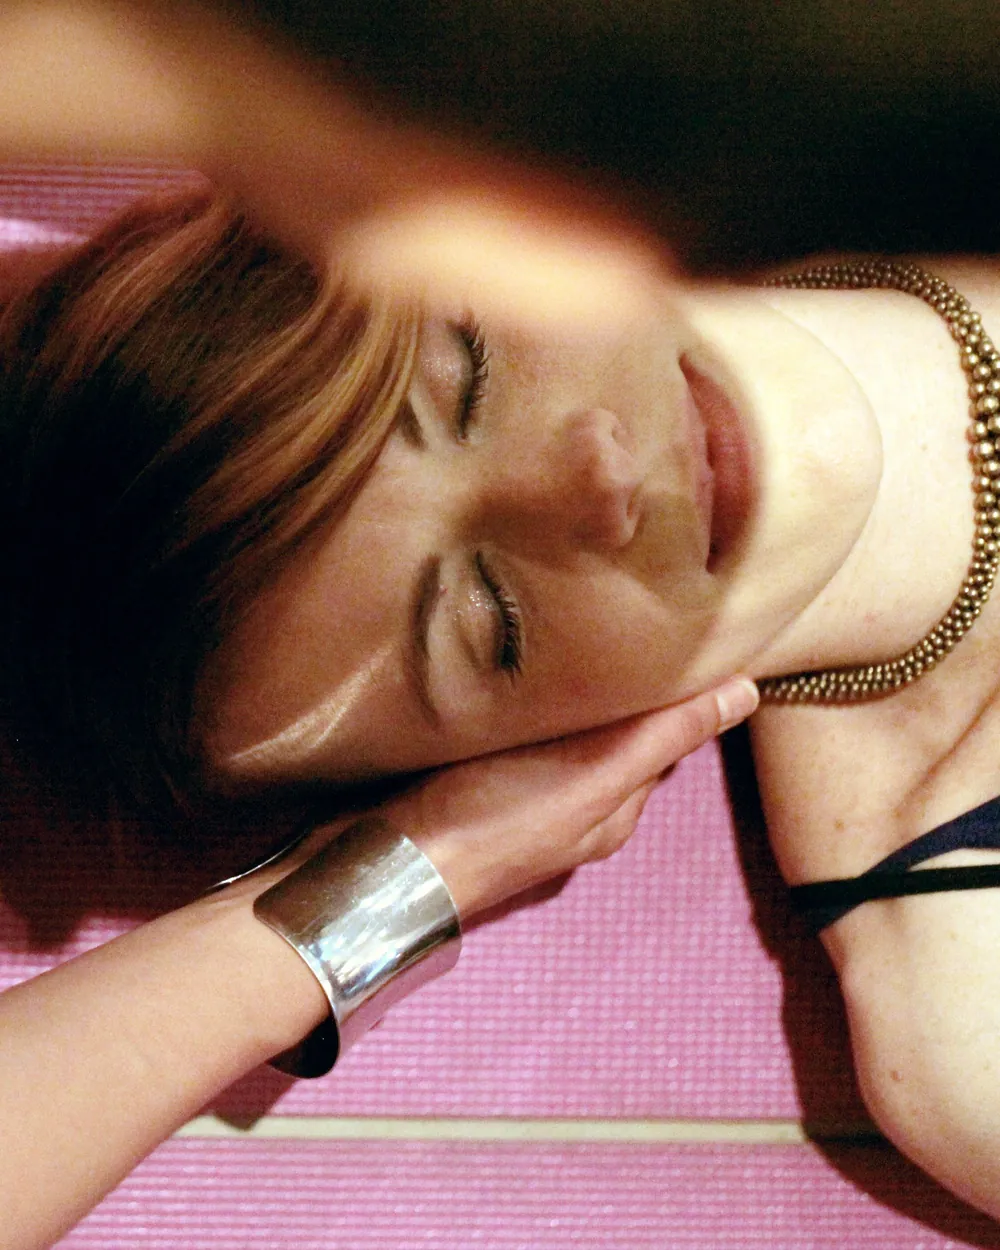
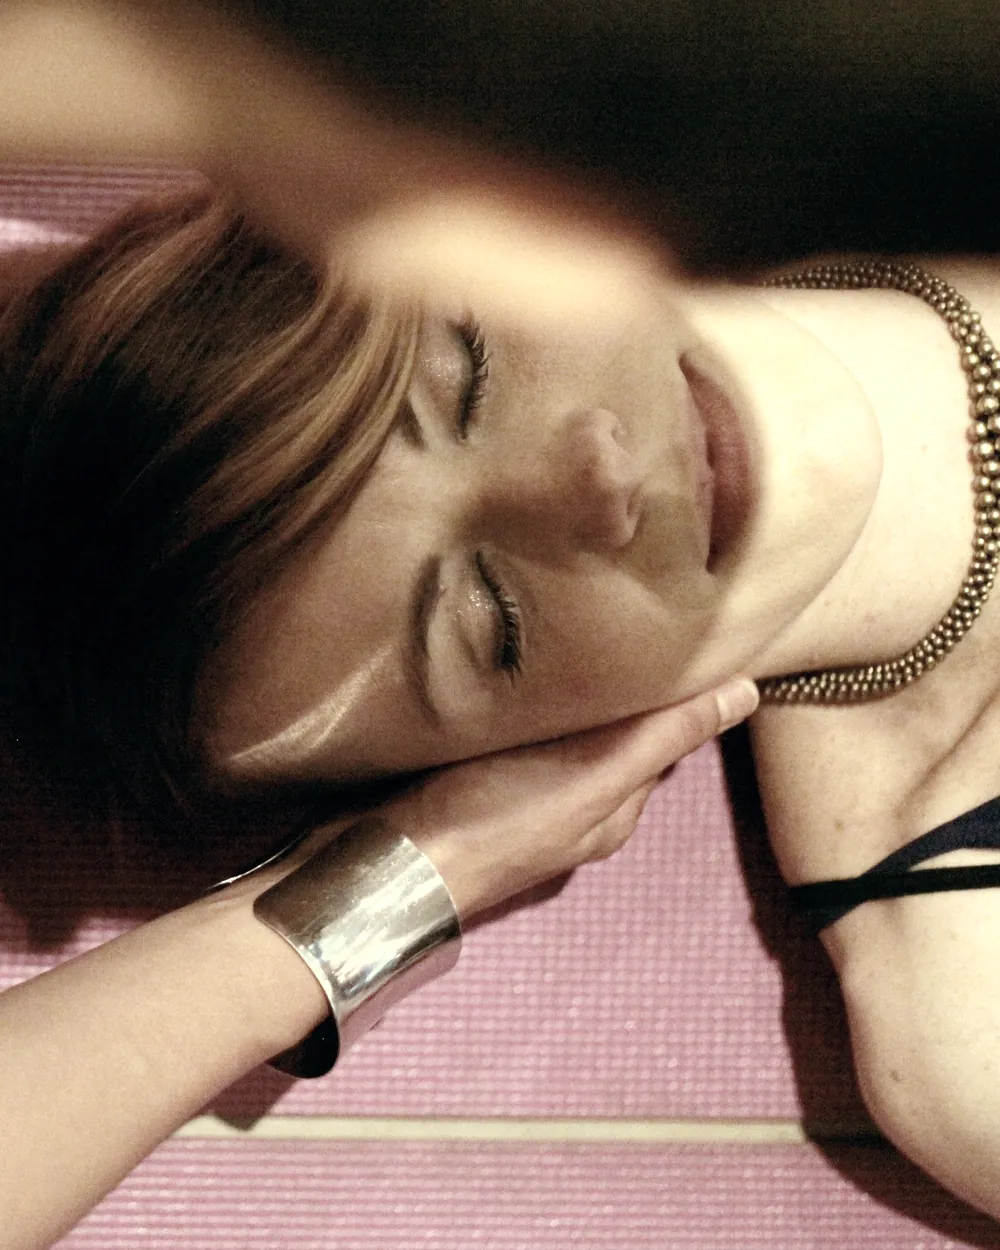
עמודי שירות: מסך ראשון שלם, רווחים הדוקים יותר, תמונת עיסוי פנים רגועה
- תמונת hero בעמודי שירות ביחס 5:4, כך שהכותרת והכפתור נראים במסך הראשון
- רווחי מקטעים 72px במובייל (במקום 96px)
- פירורי לחם גדולים וכהים יותר עם מטרת מגע של 48px
- פוטר: הקישור הבודד האחרון תופס שתי עמודות
- תמונת עיסוי פנים: רוויה נמוכה וגוון חם, המזרן הוורוד כמעט לא מורגש

Claude-Session: https://claude.ai/code/session_01X4rWwFUuqa26hzthLyL6sy

diff --git a/src/assets/styles.css b/src/assets/styles.css
@@ -115,7 +115,7 @@ p { margin: 0; }
 .why span { font-size: .74rem; line-height: 1.45; color: var(--muted); }
 
 /* ── סקשנים ── */
-.sec { padding-top: 96px; }
+.sec { padding-top: 72px; }
 .sec-head { margin-bottom: 38px; }
 .sec-head h2 { font-size: clamp(1.9rem, 8.5vw, 2.5rem); line-height: 1.12; }
 .sec-head h2::before { content: ''; display: block; width: 32px; height: 1px; background: var(--bronze); margin-bottom: 16px; }
@@ -185,7 +185,7 @@ p { margin: 0; }
 .faq details p { padding: 0 0 24px; color: var(--muted); font-size: .95rem; }
 
 /* ── קביעת תור ── */
-.book { margin-top: 96px; padding: 92px 0 76px; background: var(--dark); color: var(--on-dark); text-align: center; }
+.book { margin-top: 72px; padding: 80px 0 64px; background: var(--dark); color: var(--on-dark); text-align: center; }
 .book-card { max-width: 520px; margin-inline: auto; }
 .book-card h2 { font-size: clamp(2.3rem, 11vw, 3.2rem); font-weight: 300; line-height: 1.05; }
 .book-card > p { margin: 18px auto 38px; max-width: 28ch; color: var(--on-dark-dim); }
@@ -214,11 +214,11 @@ p { margin: 0; }
 .hp { position: absolute; inset-inline-start: -9999px; width: 1px; height: 1px; overflow: hidden; }
 
 /* ── עמוד שירות ── */
-.crumbs ol { list-style: none; display: flex; gap: 8px; margin: 0; padding: 0; font-size: .76rem; color: var(--muted); }
+.crumbs ol { list-style: none; display: flex; gap: 8px; margin: 0; padding: 0; font-size: .84rem; color: var(--ink); opacity: .8; }
 .crumbs li + li::before { content: '/'; margin-inline-end: 8px; opacity: .6; }
-.crumbs a { text-decoration: none; display: inline-flex; align-items: center; min-height: 44px; }
+.crumbs a { text-decoration: none; display: inline-flex; align-items: center; min-height: 48px; padding-inline-end: 4px; }
 .crumbs { padding-block: 0 4px; }
-.s-hero-img { aspect-ratio: 4 / 5; max-height: 76svh; margin-inline: calc(var(--pad) * -1); overflow: hidden; background: var(--line); }
+.s-hero-img { aspect-ratio: 5 / 4; margin-inline: calc(var(--pad) * -1); overflow: hidden; background: var(--line); }
 .s-hero-img img { width: 100%; height: 100%; object-fit: cover; }
 .s-hero-body { padding-block: 38px 0; }
 .s-hero h1 { font-size: clamp(2.1rem, 9.5vw, 3rem); line-height: 1.1; font-weight: 400; }
@@ -258,6 +258,7 @@ p { margin: 0; }
 .foot-links { margin: 14px 0; }
 .foot-links a { display: inline-flex; align-items: center; gap: 8px; min-height: 44px; }
 .foot ul { list-style: none; padding: 0; margin: 18px auto 26px; display: grid; grid-template-columns: 1fr 1fr; gap: 0 28px; max-width: 320px; }
+.foot li:last-child:nth-child(odd) { grid-column: 1 / -1; }
 .foot ul a { display: flex; align-items: center; justify-content: center; min-height: 48px; border-top: 1px solid var(--rule-dark); }
 .copy { font-size: .76rem; opacity: .7; }
 
@@ -306,6 +307,7 @@ p { margin: 0; }
   .why { max-width: 760px; padding-block: 48px 0; }
 
   .sec { padding-top: 128px; }
+  .book { margin-top: 128px; }
   .sec-head h2 { font-size: 2.8rem; }
   .tgrid { grid-template-columns: repeat(5, 1fr); gap: 0 20px; }
   .tgrid:has(> li:nth-child(-n+3):last-child) { grid-template-columns: repeat(3, 1fr); }
